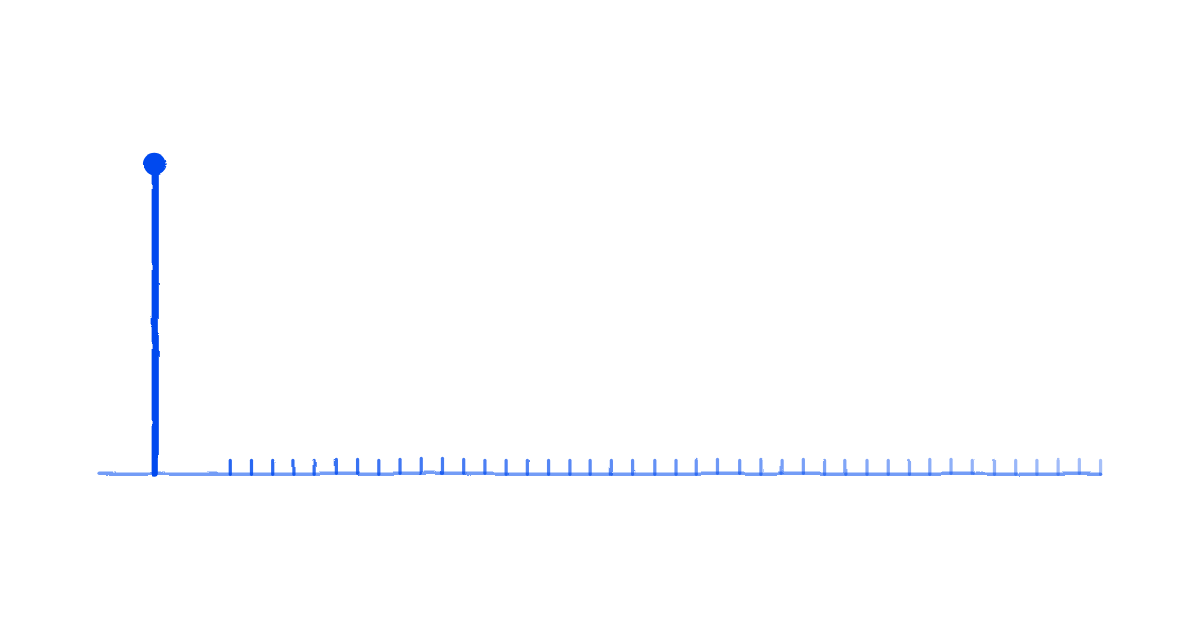
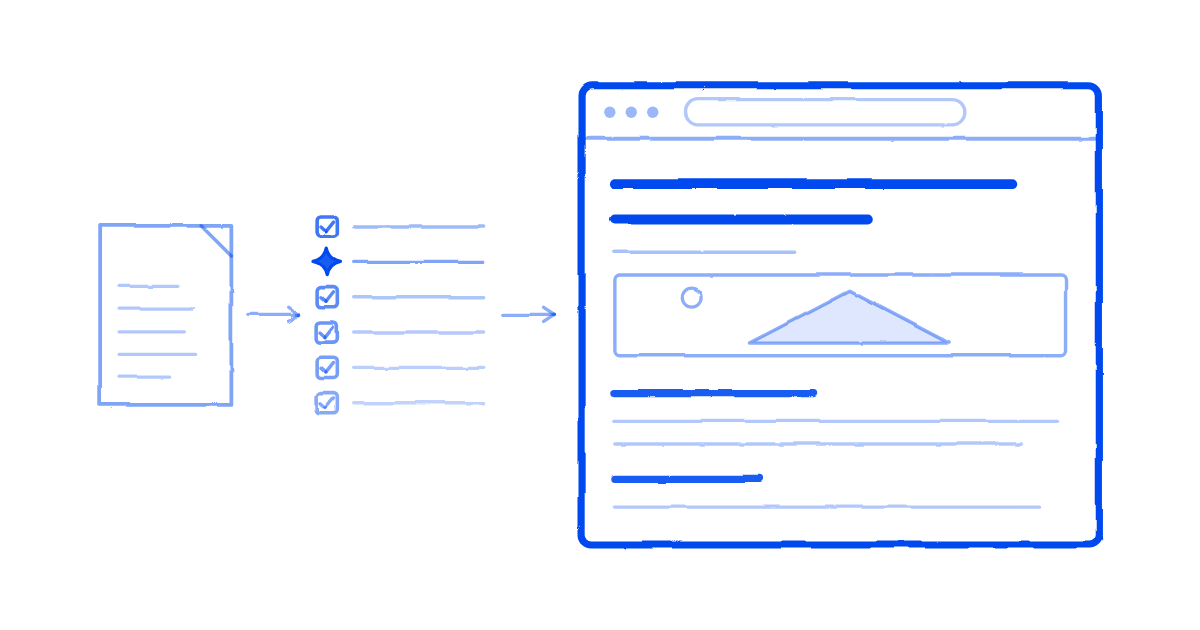
fix(work): draw the search engine and the publishing pipeline as themselves
Both illustrations were drawing the principle instead of the thing, and Viet
read them as unrelated to the projects — correctly.

  search engine        was the sparse matrix of an inverted index. True about
                       how it works, and nobody looking at it guesses "search".
                       Now: the results page. A search box with a query typed
                       into it, an AI answer above the results with its citation
                       chips, and two results with favicon, url, title, snippet.

  publishing pipeline  was model calls over time: one spike, then a flat zero
                       forever. Also true, also unreadable as "a pipeline that
                       publishes articles". Now the pipeline itself, left to
                       right: the draft, the checks it passes, and the article
                       on the page — browser chrome, H1, meta line, image, H2s.
                       One check carries a spark: the single step that uses a
                       model. Everything after it is code.

Three new primitives in the generator (arrow, check, magnifier, picture, spark)
and one rule learned twice: a 6px spark inside a 16px dashed box is destroyed
by the rough filter, and two open mountain peaks in a picture frame read as a
line chart. Both are now drawn at a size and a fill the filter cannot ruin.

Captions in the DB updated to match what the pictures now show.
[…]

Changed region(s): [[0.0617, 0.1206, 0.925, 0.8746]]

diff --git a/scripts/make-work-field.py b/scripts/make-work-field.py
@@ -74,6 +74,57 @@ def ellipse(cx, cy, rx, ry, op=1.0, sw=None, dash=None, rot=0):
             f'stroke-width="{sw or SW}"{d}{t}/>')
 
 
+def arrow(x0, x1, y, op=0.5, sw=None):
+    w = sw or SW * 0.9
+    h = 8.5
+    return (seg(x0, y, x1, y, op, w)
+            + seg(x1 - h, y - h * 0.66, x1, y, op, w)
+            + seg(x1 - h, y + h * 0.66, x1, y, op, w))
+
+
+def spark(cx, cy, s=11, op=0.95, sw=None):
+    """Ngoi sao bon canh — dau hieu cua model. Chi xuat hien o dung hai cho
+    trong ca bo: cau tra loi AI, va buoc duy nhat co model trong duong ong."""
+    d = (f"M{cx:.1f},{cy - s:.1f} Q{cx + s * .17:.1f},{cy - s * .17:.1f} "
+         f"{cx + s:.1f},{cy:.1f} Q{cx + s * .17:.1f},{cy + s * .17:.1f} "
+         f"{cx:.1f},{cy + s:.1f} Q{cx - s * .17:.1f},{cy + s * .17:.1f} "
+         f"{cx - s:.1f},{cy:.1f} Q{cx - s * .17:.1f},{cy - s * .17:.1f} "
+         f"{cx:.1f},{cy - s:.1f} Z")
+    return (f'<path d="{d}" fill="{INK}" fill-opacity="{op * 0.9:.2f}" '
+            f'stroke="{INK}" stroke-opacity="{op:.2f}" '
+            f'stroke-width="{sw or SW * 0.8}" stroke-linejoin="round"/>')
+
+
+def check(cx, cy, s=5.4, op=0.85, sw=None):
+    w = sw or SW * 0.9
+    return (seg(cx - s, cy, cx - s * 0.2, cy + s * 0.72, op, w)
+            + seg(cx - s * 0.2, cy + s * 0.72, cx + s, cy - s * 0.78, op, w))
+
+
+def magnifier(cx, cy, r=10, op=0.85, sw=None):
+    w = sw or SW
+    return (f'<circle cx="{cx:.1f}" cy="{cy:.1f}" r="{r:.1f}" fill="none" '
+            f'stroke="{INK}" stroke-opacity="{op:.2f}" stroke-width="{w}"/>'
+            + seg(cx + r * .72, cy + r * .72, cx + r * 1.55, cy + r * 1.55,
+                  op, w))
+
+
+def picture(x, y, w, h, op=0.45):
+    """Khung anh: mat troi va mot dinh nui kin. Hai dinh de mo thi doc ra
+    thanh bieu do duong — dung hinh, sai nghia."""
+    peak = (f"M{x + w * .30:.1f},{y + h - 10:.1f} L{x + w * .52:.1f},"
+            f"{y + h * .20:.1f} L{x + w * .74:.1f},{y + h - 10:.1f} Z")
+    return "".join([
+        rect(x, y, w, h, op, SW * 0.9, r=4),
+        f'<circle cx="{x + w * .17:.1f}" cy="{y + h * .28:.1f}" r="7.5" '
+        f'fill="none" stroke="{INK}" stroke-opacity="{op:.2f}" '
+        f'stroke-width="{SW * .85}"/>',
+        f'<path d="{peak}" fill="{INK}" fill-opacity="{op * .28:.2f}" '
+        f'stroke="{INK}" stroke-opacity="{op:.2f}" stroke-width="{SW * .9}" '
+        f'stroke-linejoin="round"/>',
+    ])
+
+
 def svg(body):
     return (
         f'<svg xmlns="http://www.w3.org/2000/svg" viewBox="0 0 {W} {H}" '
@@ -87,33 +138,42 @@ def svg(body):
 
 
 def search():
-    """Ma tran thua cua inverted index. Hang xep theo tan suat, nen mat do tu
-    no ve ra cai nem Zipf: vai tu trung gan moi tai lieu, phan lon trung gan
-    nhu khong cai nao. Mot hang duoc noi lien: mot posting list."""
-    rng = np.random.default_rng(11)
-    COLS, ROWS = 34, 15
-    cw, ch = AW / COLS, AH / ROWS
+    """Trang ket qua that, ve dung thu nguoi dung nhin thay: o tim kiem voi
+    cau da go, cau tra loi AI co trich nguon nam tren, roi cac ket qua ben
+    duoi. Ban truoc ve ma tran thua cua chi muc — dung ve nguyen ly, nhung
+    khong ai nhin vao ma doan ra day la mot cong cu tim kiem."""
     b = []
-    for r in range(ROWS):
-        k = 1 - r / (ROWS - 1)
-        dens = max(0.02, 1.02 * k ** 1.9)
-        rad = 2.4 + 3.8 * k
-        op = 0.30 + 0.66 * k
-        for c in range(COLS):
-            if rng.random() < dens:
-                b.append(dot(M + c * cw + cw / 2, M + r * ch + ch / 2,
-                             rad, op))
-    # mot posting list trong vung thua
-    r = 8
-    cols = [3, 9, 14, 21, 27, 31]
-    y = M + r * ch + ch / 2
-    for i in range(len(cols) - 1):
-        b.append(seg(M + cols[i] * cw + cw / 2, y,
-                     M + cols[i + 1] * cw + cw / 2, y, 0.75, SW * 0.8))
-    for c in cols:
-        b.append(dot(M + c * cw + cw / 2, y, 6.0, 1.0))
-    return "".join(b)
+    # o tim kiem, keo het chieu ngang
+    b.append(rect(M, M, AW, 50, 0.95, SW * 1.4, r=25))
+    b.append(magnifier(M + 34, M + 25, 10, 0.8))
+    qx = M + 64
+    b.append(seg(qx, M + 25, qx + AW * 0.40, M + 25, 0.8, SW * 1.7))
+    b.append(seg(qx + AW * 0.40 + 12, M + 12, qx + AW * 0.40 + 12, M + 38,
+                 0.5, SW * 1.2))
 
+    # cau tra loi AI: khoi duy nhat co nen, va ngoi sao la dau hieu
+    py, ph = M + 72, 122
+    b.append(rect(M, py, AW, ph, 0.9, SW * 1.3, fill="0.045", r=16))
+    b.append(spark(M + 32, py + 30, 11, 0.95))
+    for i, (a, z) in enumerate(((0.075, 0.70), (0.030, 0.95), (0.030, 0.78))):
+        b.append(seg(M + AW * a, py + 30 + i * 23, M + AW * z, py + 30 + i * 23,
+                     0.42, SW))
+    # nguon trich: cau tra loi dat tren chinh chi muc ben duoi
+    for i in range(3):
+        b.append(rect(M + 26 + i * 64, py + ph - 36, 54, 21, 0.7, SW * 0.95,
+                      r=10))
+
+    # ket qua: cham favicon, dong dia chi, tieu de dam, hai dong trich
+    for k, (uw, tw, s1, s2) in enumerate(((0.15, 0.58, 0.93, 0.74),
+                                          (0.11, 0.46, 0.86, 0.0))):
+        y = M + 220 + k * 98
+        b.append(dot(M + 9, y, 6.5, 0.5, hollow=True))
+        b.append(seg(M + 24, y, M + 24 + AW * uw, y, 0.45, SW * 0.9))
+        b.append(seg(M, y + 25, M + AW * tw, y + 25, 1.0, SW * 2.1))
+        b.append(seg(M, y + 49, M + AW * s1, y + 49, 0.32, SW * 0.95))
+        if s2:
+            b.append(seg(M, y + 69, M + AW * s2, y + 69, 0.32, SW * 0.95))
+    return "".join(b)
 
 def keywords():
     """Cung mot dam diem, hai lan: o vi tri deu tap ban dau va o vi tri sau khi
@@ -156,23 +216,64 @@ def keywords():
 
 
 def publishing():
-    """So loi goi model theo thoi gian: mot xung o buoc dau, roi bang khong,
-    mai mai. Bai duoc xuat ban van chay tiep — cac vach nho tren duong khong."""
-    b = []
-    base = M + AH * 0.72
-    b.append(seg(M, base, M + AW, base, 0.55, SW * 0.9))
-    # xung: mot lan duy nhat
-    x0 = M + AW * 0.055
-    b.append(seg(x0, base, x0, M + AH * 0.06, 1.0, SW * 1.9))
-    b.append(dot(x0, M + AH * 0.06, 9.0, 1.0))
-    # duong khong keo dai: cac vach nho la cac bai, khong vach nao nhac len
-    n = 42
-    for i in range(n):
-        x = M + AW * (0.13 + 0.87 * i / (n - 1))
-        op = 0.85 - 0.5 * (i / (n - 1))
-        b.append(seg(x, base, x, base - 11, op, SW * 0.85))
-    return "".join(b)
+    """Duong ong that, doc tu trai sang phai: ban thao trong Google Docs, cac
+    buoc kiem o giua, va o cuoi la bai da nam tren trang. Dung mot buoc co
+    model — ve bang ngoi sao, khung net dut; sau buoc do la code chay het.
 
+    Ban truoc ve so lan goi model theo thoi gian: mot xung roi bang khong mai
+    mai. Dung ve luan diem, nhung noi "duong ong xuat ban" ma ve mot duong
+    thang thi khong ai doan ra."""
+    b = []
+    mid = M + AH / 2
+
+    # 1. ban thao
+    dw, dh = 104, 142
+    dy = mid - dh / 2
+    b.append(rect(M, dy, dw, dh, 0.5, SW))
+    b.append(seg(M + dw - 24, dy, M + dw, dy + 24, 0.5, SW * 0.9))
+    for i, f in enumerate((0.64, 0.80, 0.70, 0.82, 0.54)):
+        b.append(seg(M + 15, dy + 48 + i * 18, M + 15 + (dw - 30) * f,
+                     dy + 48 + i * 18, 0.30, SW * 0.85))
+    b.append(arrow(M + dw + 14, M + dw + 54, mid, 0.45))
+
+    # 2. cac buoc kiem; buoc thu hai la buoc duy nhat co model
+    sx, scol = M + dw + 68, 132
+    rows, rh, gap = 6, 16, 12
+    top = mid - (rows * rh + (rows - 1) * gap) / 2
+    for i in range(rows):
+        y = top + i * (rh + gap)
+        op = 0.75 - 0.055 * i
+        if i == 1:
+            b.append(spark(sx + rh / 2, y + rh / 2, 10.5, 1.0, SW * 0.85))
+            op = 1.0
+        else:
+            b.append(rect(sx, y, rh, rh, op, SW * 0.95, r=3))
+            b.append(check(sx + rh / 2, y + rh / 2, 5, op))
+        b.append(seg(sx + rh + 13, y + rh / 2, sx + scol, y + rh / 2,
+                     op * 0.5, SW * 0.9))
+    b.append(arrow(sx + scol + 16, sx + scol + 56, mid, 0.45))
+
+    # 3. bai viet da len trang — vat chinh: to nhat, dam nhat
+    ax = sx + scol + 78
+    aw = M + AW - ax
+    ay, ah = M + 4, AH - 8
+    ix, iw = ax + 26, aw - 52
+    b.append(rect(ax, ay, aw, ah, 1.0, SW * 1.9, r=8))
+    b.append(seg(ax, ay + 42, ax + aw, ay + 42, 0.45, SW))
+    for i in range(3):
+        b.append(dot(ax + 22 + i * 17, ay + 21, 4.5, 0.4))
+    b.append(rect(ax + 82, ay + 11, aw * 0.54, 20, 0.3, SW * 0.9, r=10))
+    b.append(seg(ix, ay + 78, ix + iw * 0.88, ay + 78, 1.0, SW * 2.6))
+    b.append(seg(ix, ay + 106, ix + iw * 0.56, ay + 106, 1.0, SW * 2.6))
+    b.append(seg(ix, ay + 132, ix + iw * 0.40, ay + 132, 0.34, SW * 0.9))
+    b.append(picture(ix, ay + 150, iw, 64, 0.45))
+    b.append(seg(ix, ay + 244, ix + iw * 0.44, ay + 244, 0.9, SW * 1.9))
+    for i, f in enumerate((0.98, 0.90)):
+        b.append(seg(ix, ay + 266 + i * 18, ix + iw * f, ay + 266 + i * 18,
+                     0.30, SW * 0.9))
+    b.append(seg(ix, ay + 312, ix + iw * 0.32, ay + 312, 0.9, SW * 1.9))
+    b.append(seg(ix, ay + 334, ix + iw * 0.94, ay + 334, 0.30, SW * 0.9))
+    return "".join(b)
 
 def content():
     """Bon kien truc, cung mot checklist muoi hai muc, va phan giu duoc cua moi
